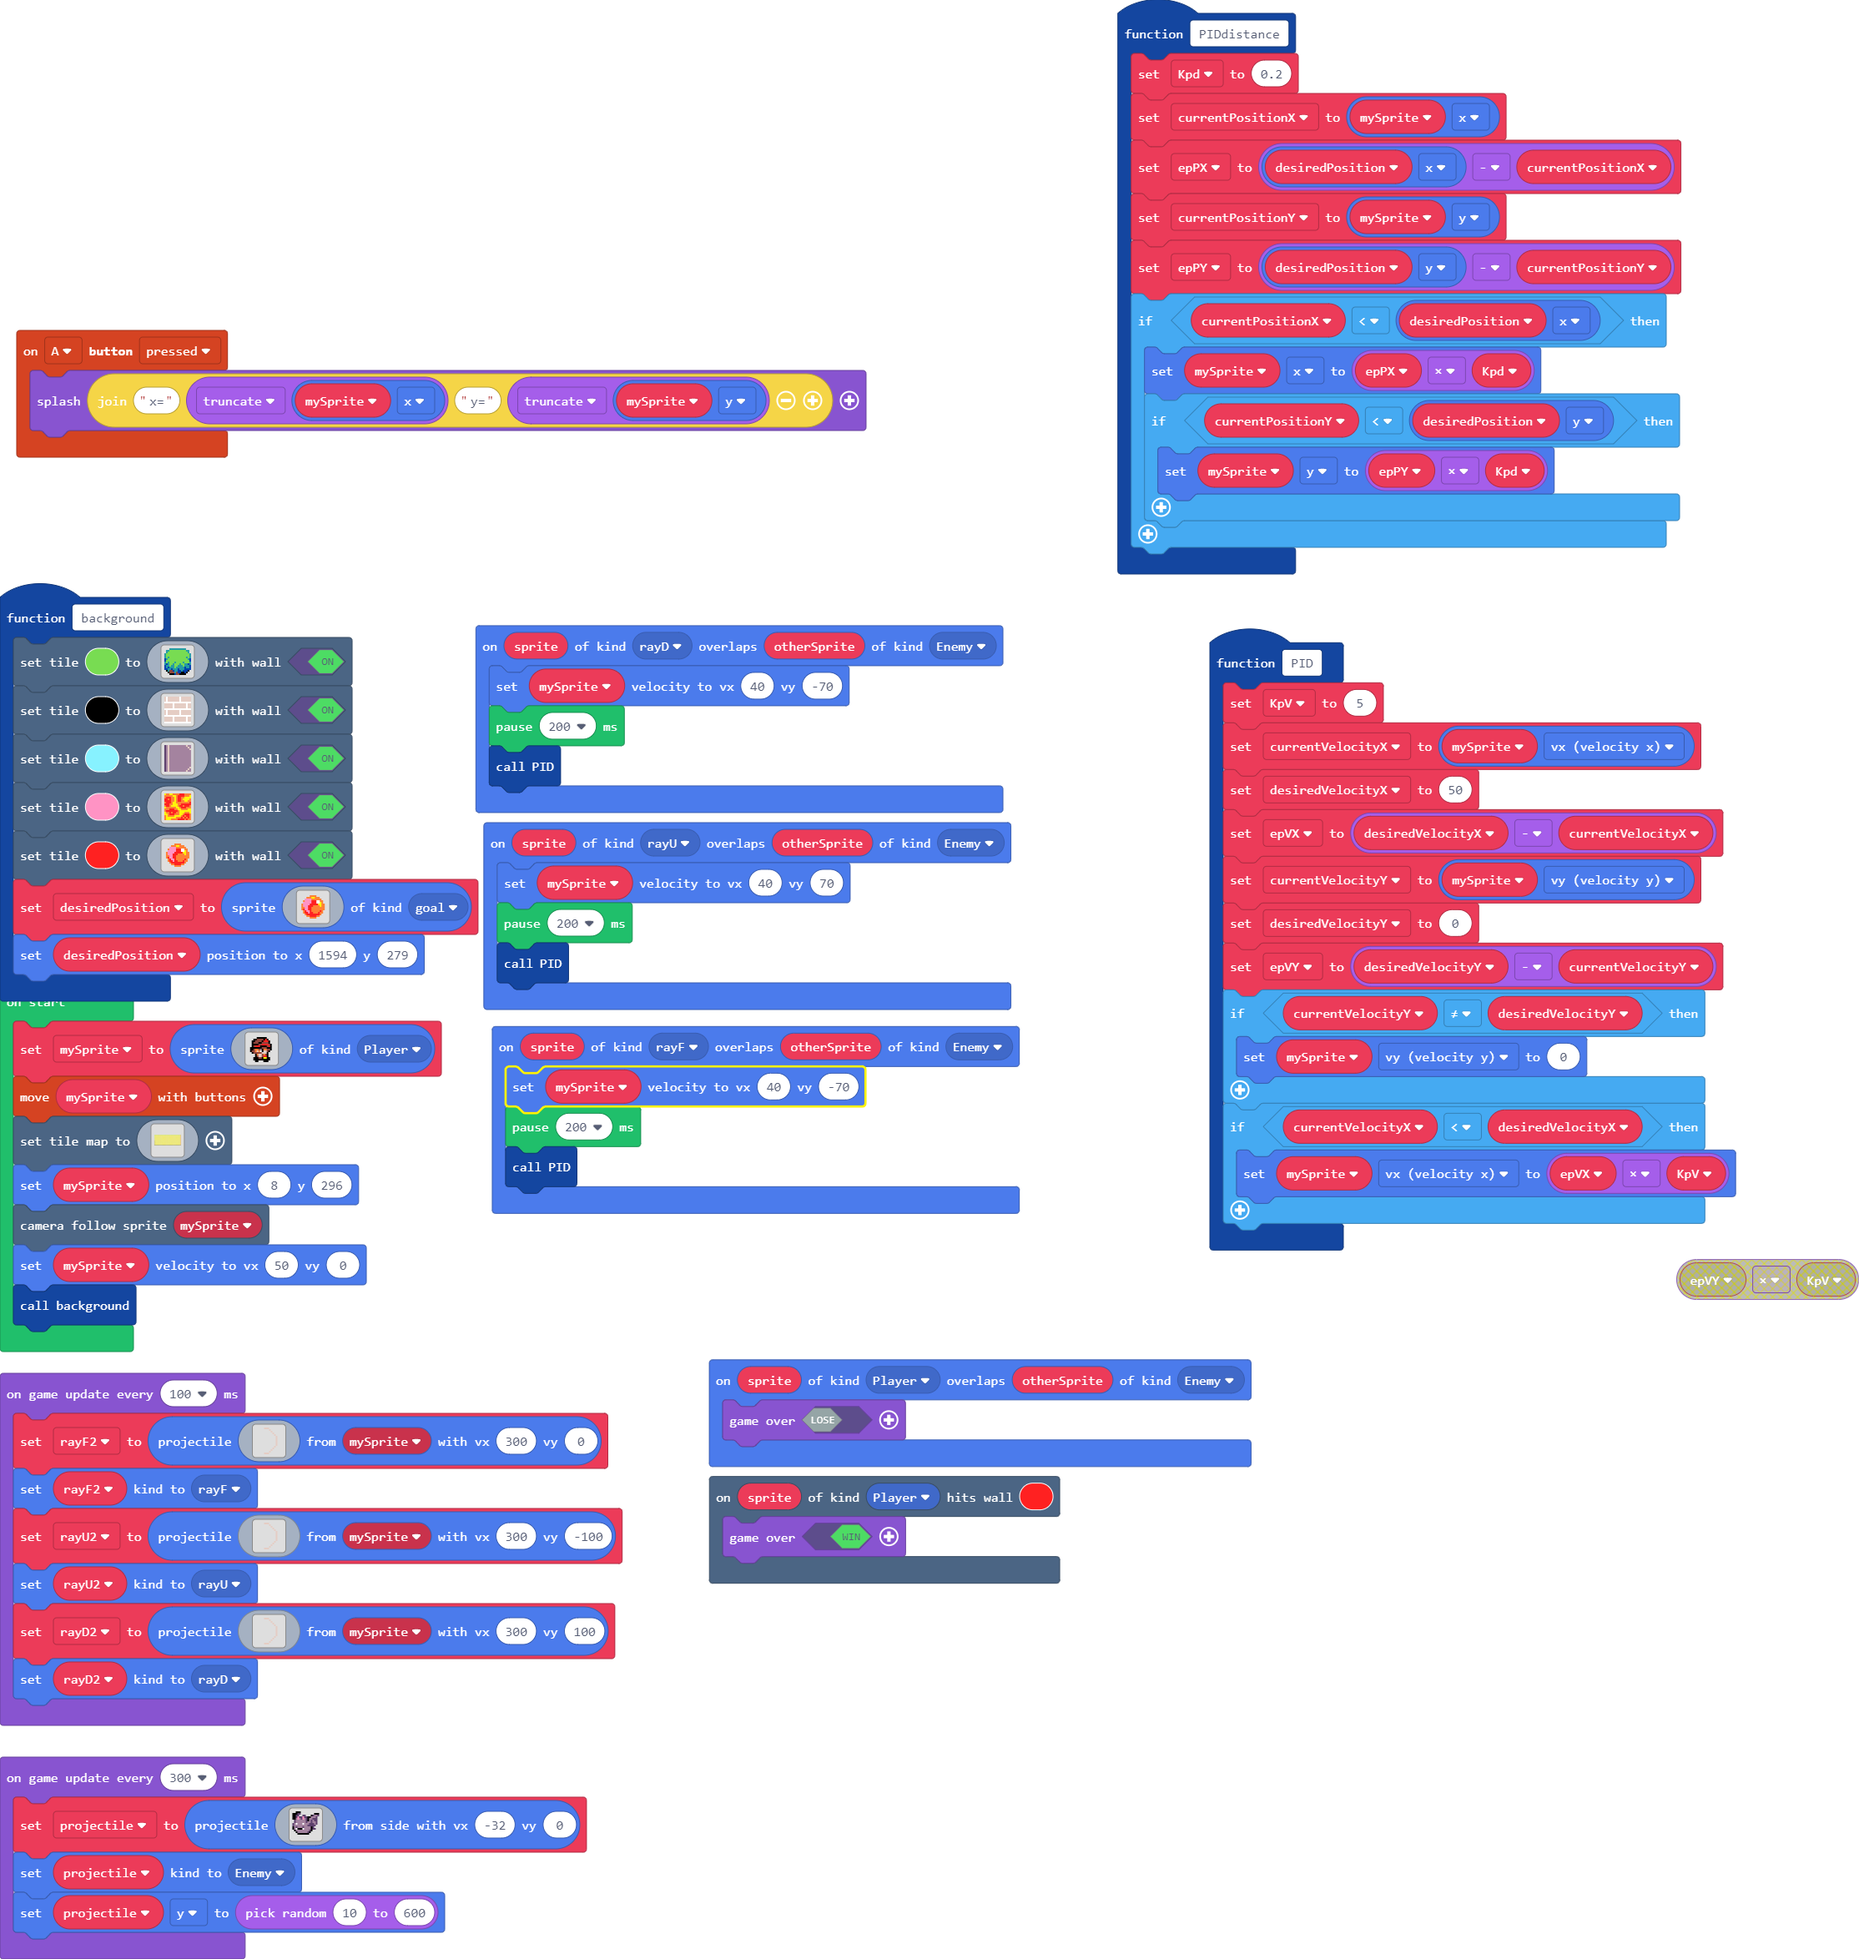
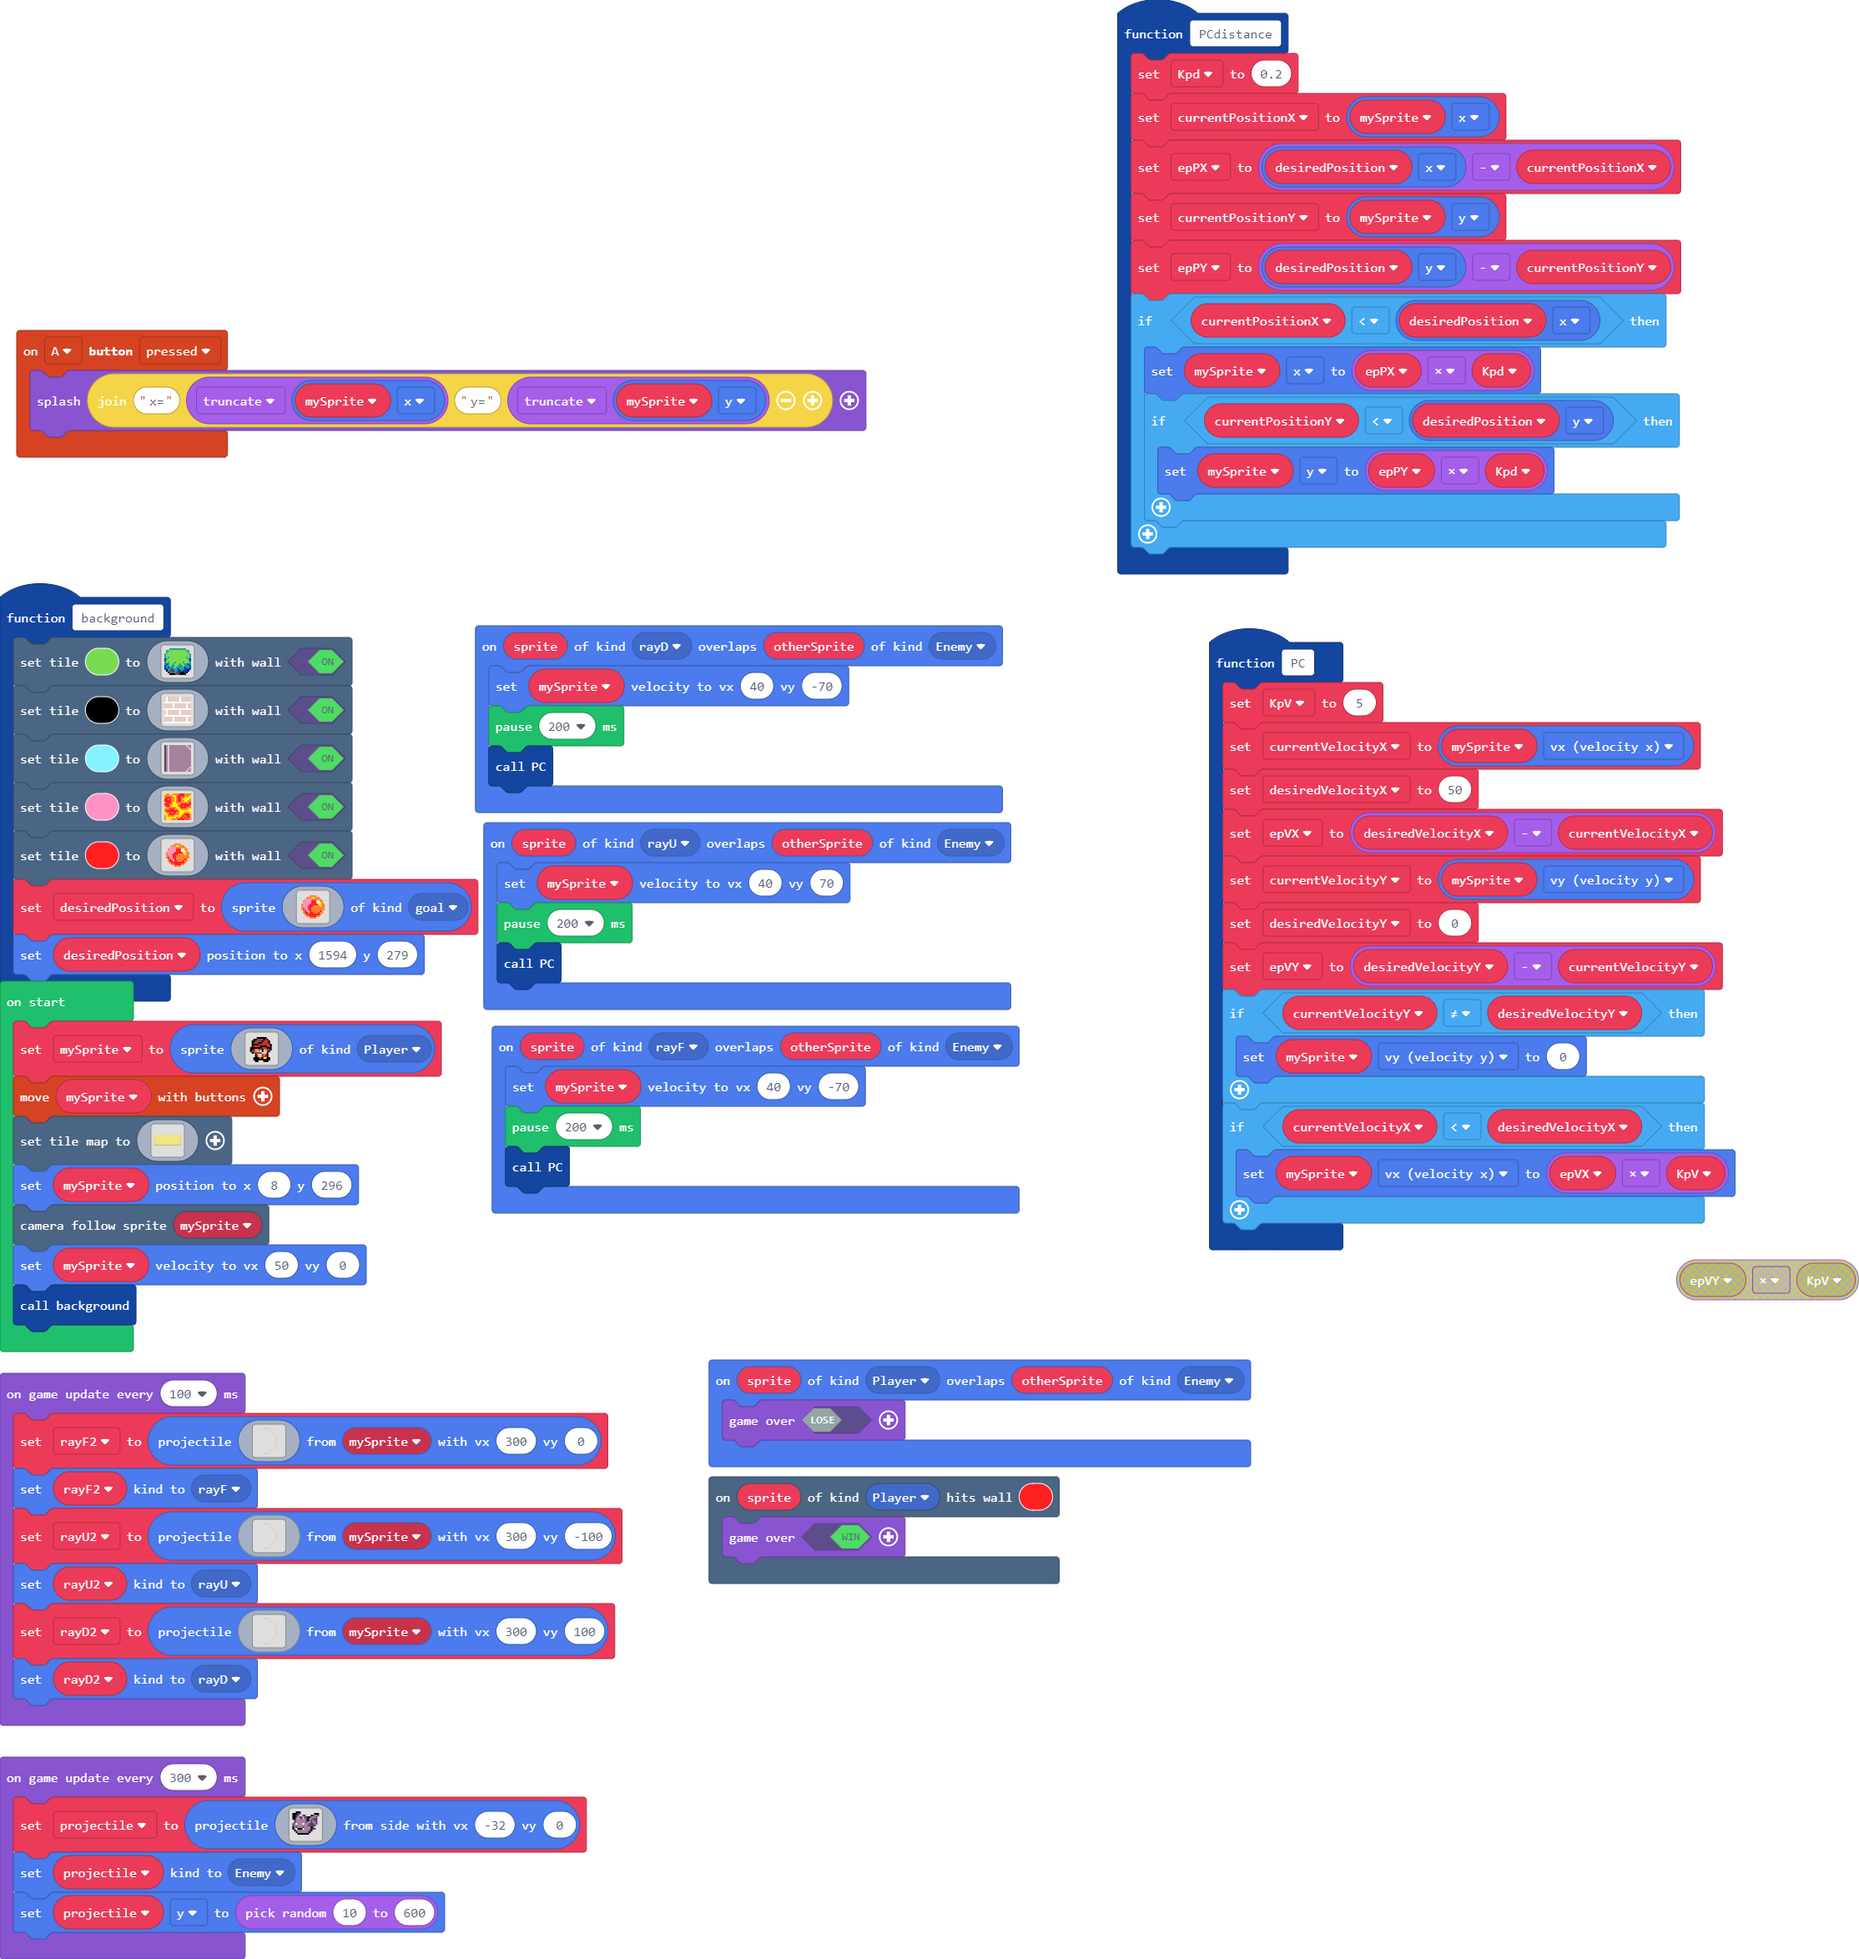
Update main.blocks, main.ts

diff --git a/main.ts b/main.ts
@@ -4,30 +4,15 @@ namespace SpriteKind {
     export const rayD = SpriteKind.create()
     export const goal = SpriteKind.create()
 }
-function PID () {
-    KpV = 5
-    currentVelocityX = mySprite.vx
-    desiredVelocityX = 50
-    epVX = desiredVelocityX - currentVelocityX
-    currentVelocityY = mySprite.vy
-    desiredVelocityY = 0
-    epVY = desiredVelocityY - currentVelocityY
-    if (currentVelocityY != desiredVelocityY) {
-        mySprite.vy = 0
-    }
-    if (currentVelocityX < desiredVelocityX) {
-        mySprite.vx = epVX * KpV
-    }
-}
 sprites.onOverlap(SpriteKind.rayD, SpriteKind.Enemy, function (sprite, otherSprite) {
     mySprite.setVelocity(40, -70)
     pause(200)
-    PID()
+    PC()
 })
 sprites.onOverlap(SpriteKind.rayU, SpriteKind.Enemy, function (sprite, otherSprite) {
     mySprite.setVelocity(40, 70)
     pause(200)
-    PID()
+    PC()
 })
 function background () {
     scene.setTile(7, img`
@@ -140,21 +125,7 @@ c b d b b b b b b b b b b d b b
 `, SpriteKind.goal)
     desiredPosition.setPosition(1594, 279)
 }
-sprites.onOverlap(SpriteKind.rayF, SpriteKind.Enemy, function (sprite, otherSprite) {
-    mySprite.setVelocity(40, -70)
-    pause(200)
-    PID()
-})
-controller.A.onEvent(ControllerButtonEvent.Pressed, function () {
-    game.splash("x=" + Math.trunc(mySprite.x) + "y=" + Math.trunc(mySprite.y))
-})
-scene.onHitTile(SpriteKind.Player, 2, function (sprite) {
-    game.over(true)
-})
-sprites.onOverlap(SpriteKind.Player, SpriteKind.Enemy, function (sprite, otherSprite) {
-    game.over(false)
-})
-function PIDdistance () {
+function PCdistance () {
     Kpd = 0.2
     currentPositionX = mySprite.x
     epPX = desiredPosition.x - currentPositionX
@@ -167,16 +138,39 @@ function PIDdistance () {
         }
     }
 }
+sprites.onOverlap(SpriteKind.rayF, SpriteKind.Enemy, function (sprite, otherSprite) {
+    mySprite.setVelocity(40, -70)
+    pause(200)
+    PC()
+})
+controller.A.onEvent(ControllerButtonEvent.Pressed, function () {
+    game.splash("x=" + Math.trunc(mySprite.x) + "y=" + Math.trunc(mySprite.y))
+})
+scene.onHitTile(SpriteKind.Player, 2, function (sprite) {
+    game.over(true)
+})
+sprites.onOverlap(SpriteKind.Player, SpriteKind.Enemy, function (sprite, otherSprite) {
+    game.over(false)
+})
+function PC () {
+    KpV = 5
+    currentVelocityX = mySprite.vx
+    desiredVelocityX = 50
+    epVX = desiredVelocityX - currentVelocityX
+    currentVelocityY = mySprite.vy
+    desiredVelocityY = 0
+    epVY = desiredVelocityY - currentVelocityY
+    if (currentVelocityY != desiredVelocityY) {
+        mySprite.vy = 0
+    }
+    if (currentVelocityX < desiredVelocityX) {
+        mySprite.vx = epVX * KpV
+    }
+}
 let projectile: Sprite = null
 let rayD2: Sprite = null
 let rayU2: Sprite = null
 let rayF2: Sprite = null
-let epPY = 0
-let currentPositionY = 0
-let epPX = 0
-let currentPositionX = 0
-let Kpd = 0
-let desiredPosition: Sprite = null
 let epVY = 0
 let desiredVelocityY = 0
 let currentVelocityY = 0
@@ -184,6 +178,12 @@ let epVX = 0
 let desiredVelocityX = 0
 let currentVelocityX = 0
 let KpV = 0
+let epPY = 0
+let currentPositionY = 0
+let epPX = 0
+let currentPositionX = 0
+let Kpd = 0
+let desiredPosition: Sprite = null
 let mySprite: Sprite = null
 mySprite = sprites.create(img`
 . . . . . . . . . . . . . . . . 
